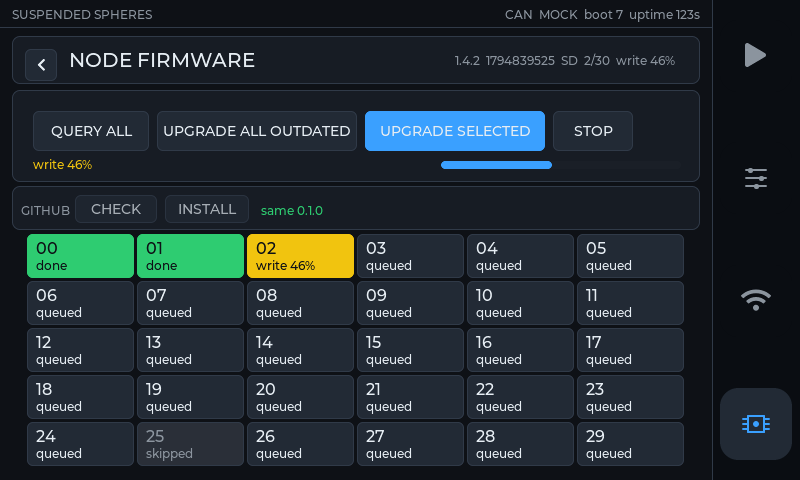
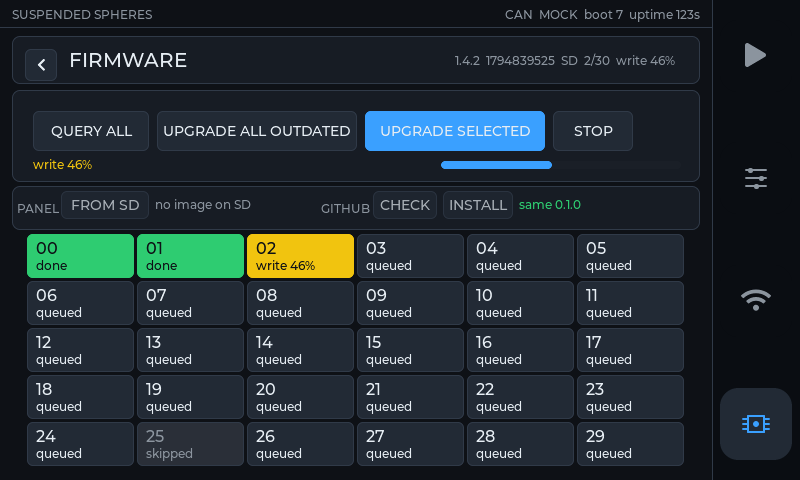
esp32gui: make GitHub update work and unify panel firmware
- local builds now default SS_GITHUB_OWNER/SS_GITHUB_REPO to
  gin66/suspended-spheres; the tag workflow still overrides both
- move PANEL FROM SD from SYSTEM into the FIRMWARE source row: the firmware
  screen already performs the GitHub panel OTA, so one screen owns every
  panel update path
- SYSTEM is build/runtime/display only; its display timeout becomes a
  full-width segmented control
- show the SD panel image state and OTA result in the FIRMWARE row
- update the design, whitepaper, TDD and AGENTS text

Changed region(s): [[0.0312, 0.4062, 0.3125, 0.4688], [0.0938, 0.0938, 0.3125, 0.1562], [0.3438, 0.4062, 0.7188, 0.4688]]

diff --git a/esp32gui/ui/ui.cpp b/esp32gui/ui/ui.cpp
@@ -164,10 +164,8 @@ lv_obj_t *s_set_boot;
 lv_obj_t *s_set_uptime;
 lv_obj_t *s_set_capacity;
 lv_obj_t *s_set_watch;
-lv_obj_t *s_set_display;
-lv_obj_t *s_set_panel_status;
-lv_obj_t *s_set_panel_update;
-lv_obj_t *s_set_panel_image;
+lv_obj_t *s_upg_panel_status;
+lv_obj_t *s_upg_panel_update;
 lv_obj_t *s_set_boards;
 lv_obj_t *s_set_positions;
 lv_obj_t *s_set_node_image;
@@ -1716,7 +1714,7 @@ void build_upgrade(void) {
   lv_obj_t *s = s_screens[UI_SCREEN_UPGRADE];
   lv_obj_t *head = make_panel(s, 12, 8, 688, 48);
   make_back_button(head, UI_SCREEN_SERVICE);
-  lv_obj_t *title = make_label(head, "NODE FIRMWARE", &lv_font_montserrat_20,
+  lv_obj_t *title = make_label(head, "FIRMWARE", &lv_font_montserrat_20,
                                C_TEXT);
   lv_obj_set_pos(title, 44, 0);
   s_upgrade_summary = make_label(head, "", &lv_font_montserrat_12, C_MUTED);
@@ -1751,22 +1749,36 @@ void build_upgrade(void) {
   lv_obj_set_style_radius(s_upgrade_progress, 4, 0);
   lv_obj_set_style_radius(s_upgrade_progress, 4, LV_PART_INDICATOR);
 
-  lv_obj_t *gh = make_panel(s, 12, 158, 688, 44);
-  lv_obj_set_style_pad_all(gh, 8, 0);
-  make_label(gh, "GITHUB", &lv_font_montserrat_12, C_MUTED);
-  lv_obj_set_pos(lv_obj_get_child(gh, 0), 0, 8);
-  s_upg_github_check = make_button(gh, "CHECK", 82, 28, on_github_check,
+  /* One row for both firmware sources: the panel image on SD and the
+   * GitHub release.  A panel update belongs here, with the node image,
+   * not under SYSTEM. */
+  lv_obj_t *src = make_panel(s, 12, 158, 688, 44);
+  lv_obj_set_style_pad_all(src, 4, 0);
+  lv_obj_t *pl = make_label(src, "PANEL", &lv_font_montserrat_12, C_MUTED);
+  lv_obj_set_pos(pl, 0, 10);
+  s_upg_panel_update = make_button(src, "FROM SD", 88, 28, on_panel_update,
                                    nullptr);
-  lv_obj_set_pos(s_upg_github_check, 54, 0);
+  lv_obj_set_pos(s_upg_panel_update, 44, 0);
+  lv_obj_set_style_text_font(s_upg_panel_update, &lv_font_montserrat_12, 0);
+  s_upg_panel_status = make_label(src, "", &lv_font_montserrat_12, C_MUTED);
+  lv_obj_set_pos(s_upg_panel_status, 138, 6);
+  lv_obj_set_width(s_upg_panel_status, 156);
+  lv_label_set_long_mode(s_upg_panel_status, LV_LABEL_LONG_CLIP);
+
+  lv_obj_t *gl = make_label(src, "GITHUB", &lv_font_montserrat_12, C_MUTED);
+  lv_obj_set_pos(gl, 304, 10);
+  s_upg_github_check = make_button(src, "CHECK", 64, 28, on_github_check,
+                                   nullptr);
+  lv_obj_set_pos(s_upg_github_check, 356, 0);
   lv_obj_set_style_text_font(s_upg_github_check, &lv_font_montserrat_12, 0);
-  s_upg_github_install = make_button(gh, "INSTALL", 84, 28, on_github_install,
+  s_upg_github_install = make_button(src, "INSTALL", 70, 28, on_github_install,
                                      nullptr);
-  lv_obj_set_pos(s_upg_github_install, 144, 0);
+  lv_obj_set_pos(s_upg_github_install, 426, 0);
   lv_obj_set_style_text_font(s_upg_github_install, &lv_font_montserrat_12, 0);
-  s_upg_github_status = make_label(gh, "not queried",
+  s_upg_github_status = make_label(src, "not queried",
                                    &lv_font_montserrat_12, C_MUTED);
-  lv_obj_set_pos(s_upg_github_status, 240, 8);
-  lv_obj_set_width(s_upg_github_status, 420);
+  lv_obj_set_pos(s_upg_github_status, 502, 6);
+  lv_obj_set_width(s_upg_github_status, 166);
   lv_label_set_long_mode(s_upg_github_status, LV_LABEL_LONG_CLIP);
 
   /* 30 tiles on one page: 6 columns by 5 rows, no second page and no
@@ -2032,7 +2044,7 @@ void build_settings(void) {
   lv_obj_t *title = make_label(head, "SYSTEM", &lv_font_montserrat_20,
                                C_TEXT);
   lv_obj_set_pos(title, 44, 0);
-  lv_obj_t *hint = make_label(head, "build, display and panel",
+  lv_obj_t *hint = make_label(head, "build, runtime and display",
                               &lv_font_montserrat_12, C_MUTED);
   lv_obj_align(hint, LV_ALIGN_RIGHT_MID, -12, 0);
 
@@ -2053,44 +2065,31 @@ void build_settings(void) {
   s_set_positions = make_kv(state, "Positions", 96);
   s_set_node_image = make_kv(state, "Node image", 118);
 
-  lv_obj_t *display = make_panel(s, 12, 256, 332, 188);
+  lv_obj_t *display = make_panel(s, 12, 256, 688, 188);
   make_label(display, "DISPLAY", &lv_font_montserrat_14, C_MUTED);
   lv_obj_t *display_text = make_label(display, "Backlight off after",
                                       &lv_font_montserrat_14, C_TEXT);
-  lv_obj_set_pos(display_text, 0, 28);
+  lv_obj_set_pos(display_text, 0, 34);
   static const uint16_t kPresets[4] = {0, 30, 60, 300};
   static const char *kPresetText[4] = {"OFF", "30 s", "60 s", "300 s"};
   for (int i = 0; i < 4; ++i) {
-    s_disp_btn[i] = make_button(display, kPresetText[i], 68, 36,
+    s_disp_btn[i] = make_button(display, kPresetText[i], 110, 40,
                                 on_display_preset,
                                 (void *)(intptr_t)kPresets[i]);
-    lv_obj_set_pos(s_disp_btn[i], i * 74, 52);
+    lv_obj_set_pos(s_disp_btn[i], i * 120, 62);
   }
-  s_set_display = s_disp_btn[2];
   lv_obj_t *display_hint = make_label(
-      display, "First touch only wakes the display; it does not press the control underneath.",
+      display,
+      "The first touch only wakes the display; it is consumed and does not "
+      "press the control underneath.",
       &lv_font_montserrat_12, C_MUTED);
-  lv_obj_set_pos(display_hint, 0, 102);
-  lv_obj_set_width(display_hint, 300);
+  lv_obj_set_pos(display_hint, 0, 112);
+  lv_obj_set_width(display_hint, 640);
   lv_label_set_long_mode(display_hint, LV_LABEL_LONG_WRAP);
-
-  lv_obj_t *panel = make_panel(s, 356, 256, 344, 188);
-  make_label(panel, "PANEL IMAGE", &lv_font_montserrat_14, C_MUTED);
-  s_set_panel_image = make_label(panel, "", &lv_font_montserrat_14, C_TEXT);
-  lv_obj_set_pos(s_set_panel_image, 0, 28);
-  s_set_panel_status = make_label(panel, "", &lv_font_montserrat_12, C_MUTED);
-  lv_obj_set_pos(s_set_panel_status, 0, 54);
-  lv_obj_set_width(s_set_panel_status, 300);
-  lv_label_set_long_mode(s_set_panel_status, LV_LABEL_LONG_CLIP);
-  s_set_panel_update = make_button(panel, "PANEL FROM SD", 180, 40,
-                                   on_panel_update, nullptr);
-  lv_obj_set_pos(s_set_panel_update, 0, 82);
-  lv_obj_t *panel_hint = make_label(
-      panel, "Loads the panel UF2 from SD, verifies it and reboots.",
+  lv_obj_t *display_hint2 = make_label(
+      display, "A running test or firmware queue keeps the screen on.",
       &lv_font_montserrat_12, C_MUTED);
-  lv_obj_set_pos(panel_hint, 0, 132);
-  lv_obj_set_width(panel_hint, 300);
-  lv_label_set_long_mode(panel_hint, LV_LABEL_LONG_WRAP);
+  lv_obj_set_pos(display_hint2, 0, 148);
 }
 
 lv_obj_t *hub_card(lv_obj_t *parent, int x, int y, int w, int h,
@@ -3061,6 +3060,24 @@ void ui_update(const ui_snapshot_t *snapshot) {
     else lv_obj_add_state(s_upgrade_stop, LV_STATE_DISABLED);
   }
 
+  /* Panel image source, next to the node image: one firmware screen owns
+   * both.  The SD path needs no network; the GitHub path needs CONNECTED. */
+  const bool panel_ready = s_snap->panel_image_ready;
+  if (panel_ready) lv_obj_clear_state(s_upg_panel_update, LV_STATE_DISABLED);
+  else lv_obj_add_state(s_upg_panel_update, LV_STATE_DISABLED);
+  const char *panel_text = s_snap->panel_status;
+  if (!panel_ready) {
+    panel_text = "no image on SD";
+  } else if (panel_text[0] == '\0' || std::strcmp(panel_text, "idle") == 0) {
+    panel_text = "ready to load";
+  }
+  lv_label_set_text(s_upg_panel_status, panel_text);
+  lv_color_t panel_color = panel_ready ? C_OK : C_MUTED;
+  if (std::strncmp(panel_text, "error", 5) == 0 ||
+      std::strstr(panel_text, "failed") != nullptr)
+    panel_color = C_ERR;
+  lv_obj_set_style_text_color(s_upg_panel_status, panel_color, 0);
+
   /* Network screen */
   uint32_t wifi_hash = 2166136261u;
   for (const char *p = s_snap->wifi_state; *p != '\0'; ++p)
@@ -3264,22 +3281,6 @@ void ui_update(const ui_snapshot_t *snapshot) {
     lv_obj_set_style_border_color(s_disp_btn[i], active ? C_ACCENT : C_LINE,
                                   0);
   }
-
-  lv_label_set_text(s_set_panel_image,
-                    s_snap->panel_image_ready ? "image ready on SD"
-                                              : "no panel image on SD");
-  lv_obj_set_style_text_color(s_set_panel_image,
-                              s_snap->panel_image_ready ? C_OK : C_MUTED, 0);
-  if (s_snap->panel_image_ready) {
-    lv_obj_clear_state(s_set_panel_update, LV_STATE_DISABLED);
-  } else {
-    lv_obj_add_state(s_set_panel_update, LV_STATE_DISABLED);
-  }
-  lv_label_set_text(s_set_panel_status,
-                    s_snap->panel_status[0]
-                        ? s_snap->panel_status
-                        : (s_snap->panel_image_ready ? "ready to load"
-                                                     : "copy a panel UF2 to SD"));
 
   /* SERVICE hub footer: the three facts that decide what to do next. */
   lv_label_set_text_fmt(s_diag_can, "CAN %s %s  |  %lu/%lu boards  |  %lu/%lu positions",

diff --git a/esp32gui/stamp_flags.py b/esp32gui/stamp_flags.py
@@ -5,8 +5,10 @@ ver = os.environ.get("SS_FW_VERSION")
 build = os.environ.get("SS_BUILD_ID")
 dirty = os.environ.get("SS_FW_DIRTY")
 release = os.environ.get("SS_RELEASE")
-owner = os.environ.get("SS_GITHUB_OWNER")
-repo = os.environ.get("SS_GITHUB_REPO")
+# Local builds default to this public repository; the tag workflow overrides
+# both values from the repository that ran the tag.
+owner = os.environ.get("SS_GITHUB_OWNER") or "gin66"
+repo = os.environ.get("SS_GITHUB_REPO") or "suspended-spheres"
 
 flags = []
 if ver:
@@ -17,9 +19,7 @@ if dirty and dirty != "0":
     flags.append("-DSS_FW_DIRTY=1")
 if release and release != "0":
     flags.append("-DSS_RELEASE=1")
-if owner:
-    flags.append('-DSS_GITHUB_OWNER=\\"%s\\"' % owner)
-if repo:
-    flags.append('-DSS_GITHUB_REPO=\\"%s\\"' % repo)
+flags.append('-DSS_GITHUB_OWNER=\\"%s\\"' % owner)
+flags.append('-DSS_GITHUB_REPO=\\"%s\\"' % repo)
 if flags:
     env.Append(BUILD_FLAGS=flags)

diff --git a/esp32gui/src/main.cpp b/esp32gui/src/main.cpp
@@ -63,7 +63,7 @@ bool s_display_wake_lock = false;
 int s_selected_animation = 0;
 bool s_animation_loading = false;
 char s_animation_status[64] = "SD file listing is not implemented";
-char s_panel_status[64] = "idle";
+char s_panel_status[64] = "";
 ss_can_id_entry_t *s_can_scratch = nullptr;
 
 static uint32_t lv_tick_cb(void) { return (uint32_t)millis(); }

diff --git a/doc/esp32gui_ui_design.md b/doc/esp32gui_ui_design.md
@@ -65,10 +65,11 @@ dead end.
 
 **SERVICE**
 
-1. **FIRMWARE** — node image, versions, fleet upgrade, GitHub release check.
+1. **FIRMWARE** — node image versions and fleet upgrade, the panel image
+   (SD and GitHub), and the GitHub release check.
 2. **CAN SCOPE** — live traffic by identifier.
 3. **LOG** — boot, CAN and commissioning events.
-4. **SYSTEM** — build/runtime, display timeout, panel image update.
+4. **SYSTEM** — build/runtime and display timeout.
 
 SHOW is the performance console, not a commissioning dashboard.  It owns the
 animation playlist and the transport: `PLAY`, `PAUSE`, `STOP`, `CYCLE`.  The
@@ -146,7 +147,8 @@ make the screen jump and remove the explanation.
 - `SET ADMIN` is available in AP mode; it is not needed for STA.
 - GitHub check/install lives in **SERVICE → FIRMWARE**.  It is disabled
   unless CONNECTED; it has no meaning in AP mode.
-- `PANEL FROM SD` is disabled when no panel image is present on SD.
+- `PANEL FROM SD` in SERVICE → FIRMWARE is disabled when no panel image is
+  present on SD.  Panel update has exactly one home: the firmware screen.
 - Firmware actions are disabled while a fleet upgrade is active; `STOP` is
   disabled when idle.
 - Show actions that would conflict with an active upgrade are disabled.
@@ -246,8 +248,9 @@ failure, not a review note.
 - CONNECT failure stays in CONNECTING and retries; no AP appears.
 - AP only starts from an explicit **AP** action; the AP screen shows a
   join QR and a browser QR, the current password, and `NEW KEY`/`SET KEY`.
-- GitHub check/install is in SERVICE → FIRMWARE and disabled unless
-  CONNECTED.
+- GitHub check/install and the SD panel image are both in SERVICE →
+  FIRMWARE; GitHub is disabled unless CONNECTED.  No other screen updates
+  the panel.
 - `FORGET` ends in OFF, not AP.
 - Network-only actions are disabled with an inline reason when not
   connected.
@@ -272,7 +275,10 @@ failure, not a review note.
   fields are disabled outside AP.
 - SYSTEM is the read-only build/runtime screen; the former footer buttons
   that overlapped the panel border are gone.  Display timeout is a four-way
-  segmented control (OFF, 30 s, 60 s, 300 s), not a hidden cycle.
+  segmented control (OFF, 30 s, 60 s, 300 s), not a hidden cycle.  Panel
+  update lives in FIRMWARE, not SYSTEM.
+- Local builds compile the GitHub owner/repository defaults; the tag workflow
+  overrides them from the repository that ran the tag.
 - While an animation is running, the library panel yields to the square red
   **STOP** target.  It sends the immediate stop; the transport `STOP`
   remains the decelerating stop.  The playlist never moves.

diff --git a/doc/esp32gui_whitepaper.md b/doc/esp32gui_whitepaper.md
@@ -264,10 +264,10 @@ in `esp32gui/host/png/`.
 | Config | Grid size, test-run drop/speed/gap, serpentine, save/reset/clear, SPIFFS state |
 | Connect | Explicit OFF / CONNECT / AP, scan, password keypad, service, AP password/rotate/edit, join/browser QR, reason |
 | Service hub | Firmware, CAN scope, Log, System |
-| Firmware | Fly image, node versions, fleet upgrade, GitHub check/install; 30 tiles on one page in 6 × 5 order; board ID, neutral queued, the one yellow Katapult board, green verified, dim excluded; `QUERY ALL`, `UPGRADE ALL OUTDATED`, `UPGRADE SELECTED`, `STOP`, image version/build/source and `n / 30` |
+| Firmware | Fly node image, panel image from SD, GitHub check/install, fleet upgrade; 30 tiles on one page in 6 × 5 order; board ID, neutral queued, the one yellow Katapult board, green verified, dim excluded; `QUERY ALL`, `UPGRADE ALL OUTDATED`, `UPGRADE SELECTED`, `STOP`, image version/build/source and `n / 30` |
 | CAN | Received-frame scope by identifier (raw ID, type, count, last data), TX sent/rejected, RX drops, bus-off state; clear |
 | Log | Recent PSRAM log ring, boot count, last watchpoint, last safe hold, thermal transitions |
-| System | Firmware, boot, uptime, capacity, watchpoint, CAN state, WiFi/IP, online boards, assigned positions, node image, display timeout, panel image update |
+| System | Firmware, boot, uptime, capacity, watchpoint, CAN state, WiFi/IP, online boards, assigned positions, node image, display timeout |
 
 The Animations screen is the file-selection UI. The SD enumeration and HBP2
 load/playback backend are not implemented yet, so the firmware reports that

diff --git a/AGENTS.md b/AGENTS.md
@@ -118,9 +118,10 @@ All technical Markdown belongs in `doc/`. Only `README.md` and `AGENTS.md` sit a
   are the panel path. The bench
   console has `wifi ap|off|forget|scan|retry|status|list|key`, `service on|off`,
   `github check|install|status` and `panelota`.  The GitHub owner/repository
-  are compiled from `SS_GITHUB_OWNER`/`SS_GITHUB_REPO`; the release workflow
-  fills them from the repository that ran the tag, so no extra variables
-  need to be configured.  An empty value disables the pull. LVGL objects, the UI snapshot and the CAN scratch copy are in
+  are compiled from `SS_GITHUB_OWNER`/`SS_GITHUB_REPO`; local builds default
+  to `gin66/suspended-spheres` and the release workflow overrides them from
+  the repository that ran the tag, so no extra variables need to be
+  configured.  An empty value disables the pull. LVGL objects, the UI snapshot and the CAN scratch copy are in
   PSRAM so internal DRAM remains for lwIP and the WiFi driver. `release_gate.h` rejects a
   build that sets both `SS_RELEASE` and `SS_CAN_MOCK`. Never upload or flash
   without an explicit request.

diff --git a/doc/firmware_release_tdd.md b/doc/firmware_release_tdd.md
@@ -515,9 +515,11 @@ On clean commit `bc954a62`, build id `1794858657`:
   `.../releases/download/<tag>/<asset>`, rejects an asset URL outside the
   pinned repository, verifies SHA-256, stores the Fly bundle on SD and applies
   the panel image with `panel_ota_apply` (reboot).
-- Settings has **CHECK UPDATES**; the web control page has check and
-  install (the POST is the confirmation); the bench console has
-  `github check|install|status`.
+- SERVICE → FIRMWARE has **GITHUB CHECK** and **INSTALL**; the web control
+  page has check and install (the POST is the confirmation); the bench
+  console has `github check|install|status`.  Local builds default the owner
+  and repository to `gin66/suspended-spheres`; the tag workflow overrides
+  both.
 - The panel WIFI screen and keyboard are compiled and shown in the host PNG;
   touch/keyboard interaction on the panel has not been exercised yet.
 - Not exercised against GitHub in this session: the setup AP was started and
